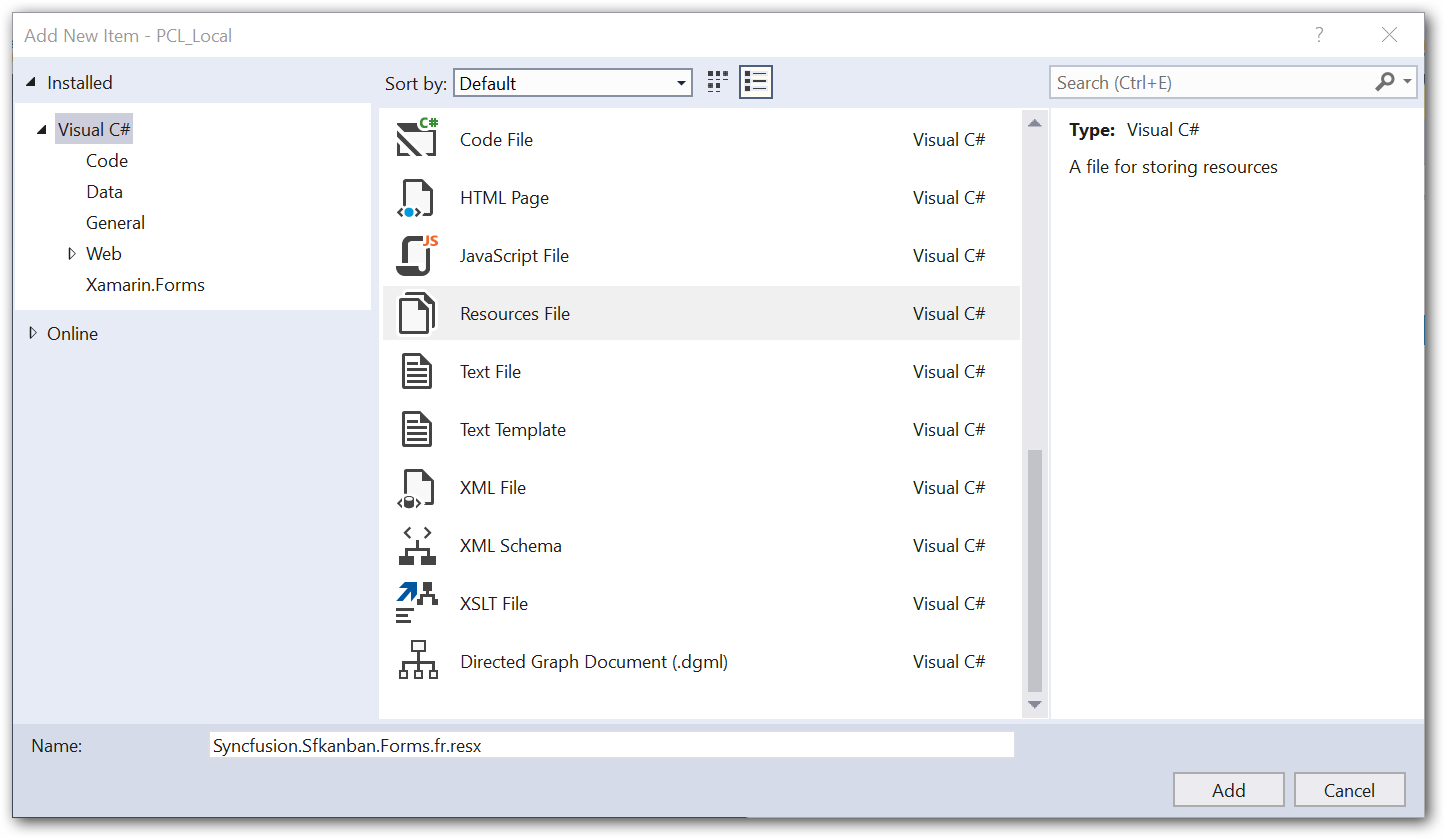
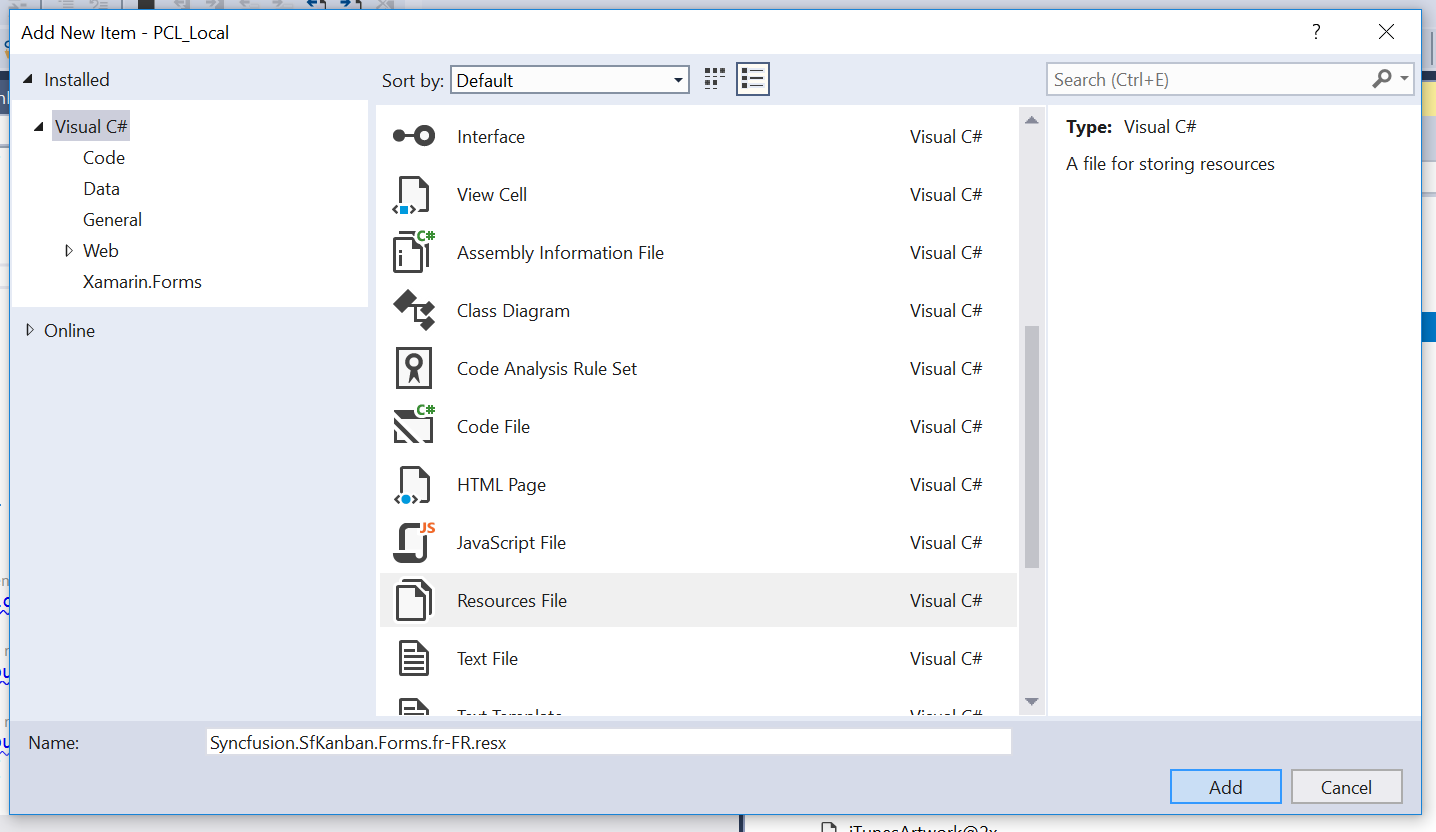
WPF-42074 : Resource file name changes updated in Xamarin SfKanban localization document.

diff --git a/Xamarin/SfKanban/Localization.md b/Xamarin/SfKanban/Localization.md
@@ -18,8 +18,8 @@ In the following code example, application culture is configured to French langu
 public MainPage()
 {
     this.InitializeComponent();
-	CultureInfo.DefaultThreadCurrentCulture = new CultureInfo("fr");
-    CultureInfo.DefaultThreadCurrentUICulture = new CultureInfo("fr");
+	CultureInfo.DefaultThreadCurrentCulture = new CultureInfo("fr-FR");
+    CultureInfo.DefaultThreadCurrentUICulture = new CultureInfo("fr-FR");
 }
 {% endhighlight %}
 {% endtabs %}
@@ -30,16 +30,16 @@ To localize the SfKanban based on `DefaultThreadCurrentCulture` and `DefaultThre
 
 2. Right-click the **Resources** folder, click **Add** and then click **NewItem**.
 
-3. In Add New Item  dialog, click the Resource File and name the filename as **Syncfusion.SfKanban.Forms.[culture name].resx**. The culture name indicates name of language.
+3. In Add New Item  dialog, click the Resource File and name the filename as **Syncfusion.SfKanban.Forms.[culture name].resx**. The culture name indicates name of language and country.
 
-For example, you will have to give name as **Syncfusion.SfKanban.Forms.fr.resx** for French culture.
+For example, you will have to give name as **Syncfusion.SfKanban.Forms.fr-FR.resx** for French culture.
 
 ![](SfKanban_images\LocalizationAddResource.png)
 
 4. Add the Name/Value pair in Resource Designer of **Syncfusion.SfKanban.Forms.[culture name].resx** file and change its corresponding value to corresponding culture.
 
-You can get the SfKanban’s key from default resource [Syncfusion.SfKanban.Forms.en.resx](http://www.syncfusion.com/downloads/support/directtrac/general/ze/Syncfusion.Sfkanban.Forms.en917192508.zip).
+You can get the SfKanban’s key from default resource [Syncfusion.SfKanban.Forms.en-US.resx](http://www.syncfusion.com/downloads/support/directtrac/general/ze/Syncfusion.SfKanban.Forms.en-US-2068260575.zip).
 
 ![](SfKanban_images\LocalizationOutput.png)
 
-You can download the sample for localization of kanban from [here](http://www.syncfusion.com/downloads/support/directtrac/general/ze/PCL_Local1328758280.zip)
+You can download the sample for localization of kanban from [here](http://www.syncfusion.com/downloads/support/directtrac/general/ze/PCL_Local1653220814.zip)
